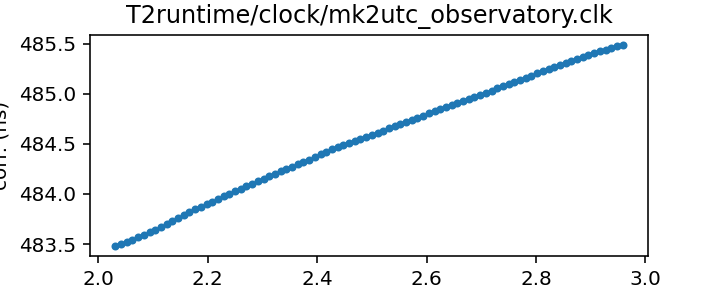
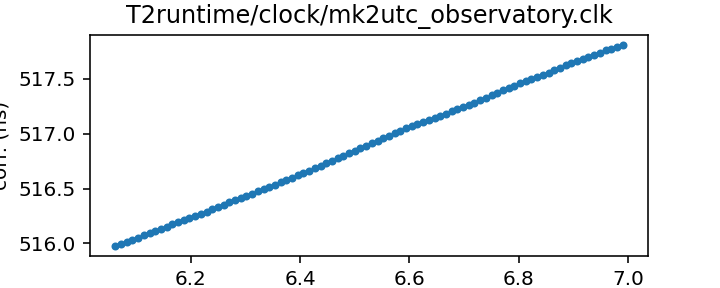
Routine gh-pages update from Github action Mon Aug  8 20:35:44 UTC 2022

diff --git a/status.md b/status.md
@@ -13,17 +13,17 @@ name of each clock file links to a page with more details.
 
 | Name | File | Corrections start | Corrections end | Last check date | Last check result 
 |:--- |:--- | --- | --- | --- |:--- 
-| [GPS to UTC](T2runtime/clock/gps2utc.clk.html) | `T2runtime/clock/gps2utc.clk` | 1993-01-01 MJD 48988.0 | 2022-06-29 MJD 59759.0 | 2022-08-07 | Unchanged 
-| [GPS to UTC (Combined Clock)](T2runtime/clock/gps2utc_cc.clk.html) | `T2runtime/clock/gps2utc_cc.clk` | 1993-01-01 MJD 48988.0 | 2022-06-29 MJD 59759.0 | 2022-08-07 | Unchanged 
-| [GPS to UTC (Corrected)](T2runtime/clock/gps2utc_c0p.clk.html) | `T2runtime/clock/gps2utc_c0p.clk` | 2010-12-29 MJD 55559.0 | 2022-06-29 MJD 59759.0 | 2022-08-07 | Unchanged 
-| [GBT](tempo/clock/time_gbt.dat.html) | `tempo/clock/time_gbt.dat` | 2000-12-31 MJD 51909.5 | 2022-07-31 MJD 59791.5 | 2022-08-07 | **Validation failed** 
+| [GPS to UTC](T2runtime/clock/gps2utc.clk.html) | `T2runtime/clock/gps2utc.clk` | 1993-01-01 MJD 48988.0 | 2022-06-29 MJD 59759.0 | 2022-08-08 | Unchanged 
+| [GPS to UTC (Combined Clock)](T2runtime/clock/gps2utc_cc.clk.html) | `T2runtime/clock/gps2utc_cc.clk` | 1993-01-01 MJD 48988.0 | 2022-06-29 MJD 59759.0 | 2022-08-08 | Unchanged 
+| [GPS to UTC (Corrected)](T2runtime/clock/gps2utc_c0p.clk.html) | `T2runtime/clock/gps2utc_c0p.clk` | 2010-12-29 MJD 55559.0 | 2022-06-29 MJD 59759.0 | 2022-08-08 | Unchanged 
+| [GBT](tempo/clock/time_gbt.dat.html) | `tempo/clock/time_gbt.dat` | 2000-12-31 MJD 51909.5 | 2022-07-31 MJD 59791.5 | 2022-08-08 | **Validation failed** 
 | [GBT (TEMPO2 converted from TEMPO)](T2runtime/clock/gbt2gps.clk.html) | `T2runtime/clock/gbt2gps.clk` | 2000-12-31 MJD 51909.5 | 2022-07-31 MJD 59791.5 | 2022-08-01 | Updated 
 | [Jodrell Bank](T2runtime/clock/jb2gps.clk.html) | `T2runtime/clock/jb2gps.clk` | 2006-10-13 MJD 54021.4 | 2021-11-03 MJD 59521.0 | 2022-08-03 | Unchanged 
 | [Jodrell Bank Roach](T2runtime/clock/jbroach2jb.clk.html) | `T2runtime/clock/jbroach2jb.clk` | 2006-10-13 MJD 54021.4 | 2018-03-20 MJD 58197.6 | 2022-08-03 | Unchanged 
 | [Jodrell Bank DFB](T2runtime/clock/jbdfb2jb.clk.html) | `T2runtime/clock/jbdfb2jb.clk` | 2006-10-13 MJD 54021.4 | 2017-05-11 MJD 57884.0 | 2022-08-03 | Unchanged 
-| [Meerkat (observatory)](T2runtime/clock/mk2utc_observatory.clk.html) | `T2runtime/clock/mk2utc_observatory.clk` | 2019-01-01 MJD 58484.0 | 2022-07-12 MJD 59773.0 | 2022-08-01 | Unchanged 
-| [Leap seconds](tempo/clock/leap.sec.html) | `tempo/clock/leap.sec` | 1972-07-01 MJD 41499.0 | 2017-01-01 MJD 57754.0 | 2022-08-07 | Unchanged 
-| [UT1 table](tempo/clock/ut1.dat.html) | `tempo/clock/ut1.dat` | 1973-01-02 MJD 41684.0 | 2023-08-12 MJD 60168.0 | 2022-08-07 | Unchanged 
+| [Meerkat (observatory)](T2runtime/clock/mk2utc_observatory.clk.html) | `T2runtime/clock/mk2utc_observatory.clk` | 2019-01-01 MJD 58484.0 | 2022-07-26 MJD 59787.0 | 2022-08-08 | Updated 
+| [Leap seconds](tempo/clock/leap.sec.html) | `tempo/clock/leap.sec` | 1972-07-01 MJD 41499.0 | 2017-01-01 MJD 57754.0 | 2022-08-08 | Unchanged 
+| [UT1 table](tempo/clock/ut1.dat.html) | `tempo/clock/ut1.dat` | 1973-01-02 MJD 41684.0 | 2023-08-12 MJD 60168.0 | 2022-08-08 | Unchanged 
 
 
 
@@ -64,7 +64,7 @@ name of each clock file links to a page with more details.
 | Name | File | Corrections start | Corrections end | Last check date | Last check result 
 |:--- |:--- | --- | --- | --- |:--- 
 | [GPS to UTC (TEMPO2)](T2runtime/clock/gps2utc_tempo2.clk.html) | `T2runtime/clock/gps2utc_tempo2.clk` | 1996-03-27 MJD 50169.0 | 2020-10-27 MJD 59149.0 | 2022-08-04 | Unchanged 
-| [GBT (TEMPO2)](T2runtime/clock/gbt2gps_tempo2.clk.html) | `T2runtime/clock/gbt2gps_tempo2.clk` | 2000-12-31 MJD 51909.5 | 2020-02-25 MJD 58904.5 | 2022-08-01 | Unchanged 
+| [GBT (TEMPO2)](T2runtime/clock/gbt2gps_tempo2.clk.html) | `T2runtime/clock/gbt2gps_tempo2.clk` | 2000-12-31 MJD 51909.5 | 2020-02-25 MJD 58904.5 | 2022-08-08 | Unchanged 
 | [Jodrell Bank (TEMPO)](tempo/clock/time_jb.dat.html) | `tempo/clock/time_jb.dat` | 2006-10-13 MJD 54021.4 | 2019-05-13 MJD 58616.2 | 2022-08-04 | Unchanged 
 | [VLA](tempo/clock/time_vla.dat.html) | `tempo/clock/time_vla.dat` | 1990-10-27 MJD 48191.2 | 2021-03-07 MJD 59280.5 | 2022-08-04 | **Failed to download** 
 | [VLA (TEMPO2)](T2runtime/clock/vla2gps.clk.html) | `T2runtime/clock/vla2gps.clk` | 2015-02-01 MJD 57054.6 | 2021-03-07 MJD 59280.5 | 2022-08-03 | Unchanged 

diff --git a/tempo/clock/time_gbt.dat.md b/tempo/clock/time_gbt.dat.md
@@ -20,12 +20,11 @@ If questions arise, contact Ryan S. Lynch <rlynch@nrao.edu>.
 | Clock file start | 2000-12-31 MJD 51909.5 |
 | Clock file end | 2022-07-31 MJD 59791.5 |
 | Update interval (days) | 1 |
-| Last update attempt | 2022-08-07 |
+| Last update attempt | 2022-08-08 |
 | Last update result | Validation failed |
 
 Log entries from the last few update attempts:
 ```
-2022-07-29 20:35:58.517 - Updated
 2022-07-30 20:32:10.621 - Updated
 2022-07-31 20:33:29.410 - Updated
 2022-08-01 20:37:40.878 - Updated
@@ -35,6 +34,7 @@ Log entries from the last few update attempts:
 2022-08-05 20:33:58.412 - Validation failed: New version of tempo/clock/time_gbt.dat clock corrections differ from old version where they overlap in 1 places
 2022-08-06 20:32:43.267 - Validation failed: New version of tempo/clock/time_gbt.dat clock corrections differ from old version where they overlap in 1 places
 2022-08-07 20:33:30.958 - Validation failed: New version of tempo/clock/time_gbt.dat clock corrections differ from old version where they overlap in 1 places
+2022-08-08 20:35:11.388 - Validation failed: New version of tempo/clock/time_gbt.dat clock corrections differ from old version where they overlap in 1 places
 ```
 [Full log](https://raw.githubusercontent.com/ipta/pulsar-clock-corrections/main/log/tempo/clock/time_gbt.dat.log)
 

diff --git a/T2runtime/clock/mk2utc_observatory.clk.md b/T2runtime/clock/mk2utc_observatory.clk.md
@@ -19,10 +19,10 @@ If questions arise, contact Ryan Shannon <rshannon@swin.edu.au>
 | Format | tempo2 |
 | Bogus last correction | False |
 | Clock file start | 2019-01-01 MJD 58484.0 |
-| Clock file end | 2022-07-12 MJD 59773.0 |
+| Clock file end | 2022-07-26 MJD 59787.0 |
 | Update interval (days) | 7 |
-| Last update attempt | 2022-08-01 |
-| Last update result | Unchanged |
+| Last update attempt | 2022-08-08 |
+| Last update result | Updated |
 
 Log entries from the last few update attempts:
 ```
@@ -34,6 +34,7 @@ Log entries from the last few update attempts:
 2022-07-18 20:34:30.484 - Unchanged
 2022-07-25 20:33:31.267 - Updated
 2022-08-01 20:37:43.896 - Unchanged
+2022-08-08 20:35:15.765 - Updated
 ```
 [Full log](https://raw.githubusercontent.com/ipta/pulsar-clock-corrections/main/log/T2runtime/clock/mk2utc_observatory.clk.log)
 
@@ -42,7 +43,7 @@ Leading comments from clock file:
     # Tie of Karoo Telescope Time to UTC
     # This file is from the KTT-GNSS sensor, and does not include circular-T
     # MJD = (SensorTime(us)/86400e6)+40587    15-minute snapshots
-    # Created at unix time 1658476499.660149 from KTT mySQL database.
+    # Created at unix time 1659513538.403479 from KTT mySQL database.
     #
     # MJD (days)   KTT-UTC (seconds)
     #------------------------------------------------------

diff --git a/T2runtime/clock/gbt2gps_tempo2.clk.md b/T2runtime/clock/gbt2gps_tempo2.clk.md
@@ -16,12 +16,11 @@ This file is pulled from the TEMPO2 repository and may not be fully up-to-date.
 | Clock file start | 2000-12-31 MJD 51909.5 |
 | Clock file end | 2020-02-25 MJD 58904.5 |
 | Update interval (days) | 7 |
-| Last update attempt | 2022-08-01 |
+| Last update attempt | 2022-08-08 |
 | Last update result | Unchanged |
 
 Log entries from the last few update attempts:
 ```
-2022-06-07 15:28:20.238 - Unchanged
 2022-06-15 16:45:24.935 - Unchanged
 2022-06-22 20:32:52.754 - Unchanged
 2022-06-29 20:36:06.509 - Unchanged
@@ -31,6 +30,7 @@ Log entries from the last few update attempts:
 2022-07-18 20:34:26.856 - Unchanged
 2022-07-25 20:33:27.345 - Unchanged
 2022-08-01 20:37:41.120 - Unchanged
+2022-08-08 20:35:11.864 - Unchanged
 ```
 [Full log](https://raw.githubusercontent.com/ipta/pulsar-clock-corrections/main/log/T2runtime/clock/gbt2gps_tempo2.clk.log)
 

diff --git a/T2runtime/clock/gps2utc_c0p.clk.md b/T2runtime/clock/gps2utc_c0p.clk.md
@@ -30,12 +30,11 @@ about the BIPM's published corrections, contact <tai@bipm.org>.
 | Clock file start | 2010-12-29 MJD 55559.0 |
 | Clock file end | 2022-06-29 MJD 59759.0 |
 | Update interval (days) | 1 |
-| Last update attempt | 2022-08-07 |
+| Last update attempt | 2022-08-08 |
 | Last update result | Unchanged |
 
 Log entries from the last few update attempts:
 ```
-2022-07-29 20:35:57.618 - Unchanged
 2022-07-30 20:32:10.241 - Unchanged
 2022-07-31 20:33:28.498 - Unchanged
 2022-08-01 20:37:40.533 - Unchanged
@@ -45,6 +44,7 @@ Log entries from the last few update attempts:
 2022-08-05 20:33:58.107 - Unchanged
 2022-08-06 20:32:42.885 - Unchanged
 2022-08-07 20:33:30.202 - Unchanged
+2022-08-08 20:35:10.686 - Unchanged
 ```
 [Full log](https://raw.githubusercontent.com/ipta/pulsar-clock-corrections/main/log/T2runtime/clock/gps2utc_c0p.clk.log)
 

diff --git a/T2runtime/clock/gps2utc_cc.clk.md b/T2runtime/clock/gps2utc_cc.clk.md
@@ -29,12 +29,11 @@ about the BIPM's published corrections, contact <tai@bipm.org>.
 | Clock file start | 1993-01-01 MJD 48988.0 |
 | Clock file end | 2022-06-29 MJD 59759.0 |
 | Update interval (days) | 1 |
-| Last update attempt | 2022-08-07 |
+| Last update attempt | 2022-08-08 |
 | Last update result | Unchanged |
 
 Log entries from the last few update attempts:
 ```
-2022-07-29 20:35:57.607 - Unchanged
 2022-07-30 20:32:10.229 - Unchanged
 2022-07-31 20:33:28.486 - Unchanged
 2022-08-01 20:37:40.520 - Unchanged
@@ -44,6 +43,7 @@ Log entries from the last few update attempts:
 2022-08-05 20:33:58.093 - Unchanged
 2022-08-06 20:32:42.872 - Unchanged
 2022-08-07 20:33:30.192 - Unchanged
+2022-08-08 20:35:10.673 - Unchanged
 ```
 [Full log](https://raw.githubusercontent.com/ipta/pulsar-clock-corrections/main/log/T2runtime/clock/gps2utc_cc.clk.log)
 

diff --git a/T2runtime/clock/gps2utc.clk.md b/T2runtime/clock/gps2utc.clk.md
@@ -32,12 +32,11 @@ about the BIPM's published corrections, contact <tai@bipm.org>.
 | Clock file start | 1993-01-01 MJD 48988.0 |
 | Clock file end | 2022-06-29 MJD 59759.0 |
 | Update interval (days) | 1 |
-| Last update attempt | 2022-08-07 |
+| Last update attempt | 2022-08-08 |
 | Last update result | Unchanged |
 
 Log entries from the last few update attempts:
 ```
-2022-07-29 20:35:57.575 - Unchanged
 2022-07-30 20:32:10.196 - Unchanged
 2022-07-31 20:33:28.444 - Unchanged
 2022-08-01 20:37:40.481 - Unchanged
@@ -47,6 +46,7 @@ Log entries from the last few update attempts:
 2022-08-05 20:33:58.055 - Unchanged
 2022-08-06 20:32:42.831 - Unchanged
 2022-08-07 20:33:30.159 - Unchanged
+2022-08-08 20:35:10.629 - Unchanged
 ```
 [Full log](https://raw.githubusercontent.com/ipta/pulsar-clock-corrections/main/log/T2runtime/clock/gps2utc.clk.log)
 

diff --git a/tempo/clock/leap.sec.md b/tempo/clock/leap.sec.md
@@ -21,12 +21,11 @@ If there are any questions, contact Anne Archibald
 | File start | 1972-07-01 MJD 41499.0 |
 | File end | 2017-01-01 MJD 57754.0 |
 | Update interval (days) | 0 |
-| Last update attempt | 2022-08-07 |
+| Last update attempt | 2022-08-08 |
 | Last update result | Unchanged |
 
 Log entries from the last few update attempts:
 ```
-2022-07-29 20:35:58.624 - Unchanged
 2022-07-30 20:32:10.725 - Unchanged
 2022-07-31 20:33:29.547 - Unchanged
 2022-08-01 20:37:43.916 - Unchanged
@@ -36,5 +35,6 @@ Log entries from the last few update attempts:
 2022-08-05 20:33:58.457 - Unchanged
 2022-08-06 20:32:43.316 - Unchanged
 2022-08-07 20:33:30.993 - Unchanged
+2022-08-08 20:35:15.790 - Unchanged
 ```
 [Full log](https://raw.githubusercontent.com/ipta/pulsar-clock-corrections/main/log/tempo/clock/leap.sec.log)

diff --git a/tempo/clock/ut1.dat.md b/tempo/clock/ut1.dat.md
@@ -30,12 +30,11 @@ If there are any questions, contact Anne Archibald
 | File start | 1973-01-02 MJD 41684.0 |
 | File end | 2023-08-12 MJD 60168.0 |
 | Update interval (days) | 0 |
-| Last update attempt | 2022-08-07 |
+| Last update attempt | 2022-08-08 |
 | Last update result | Unchanged |
 
 Log entries from the last few update attempts:
 ```
-2022-07-29 20:36:09.125 - Unchanged
 2022-07-30 20:32:18.061 - Unchanged
 2022-07-31 20:33:41.709 - Unchanged
 2022-08-01 20:37:51.824 - Unchanged
@@ -45,5 +44,6 @@ Log entries from the last few update attempts:
 2022-08-05 20:34:05.956 - Unchanged
 2022-08-06 20:32:50.811 - Unchanged
 2022-08-07 20:33:40.392 - Unchanged
+2022-08-08 20:35:26.241 - Unchanged
 ```
 [Full log](https://raw.githubusercontent.com/ipta/pulsar-clock-corrections/main/log/tempo/clock/ut1.dat.log)
